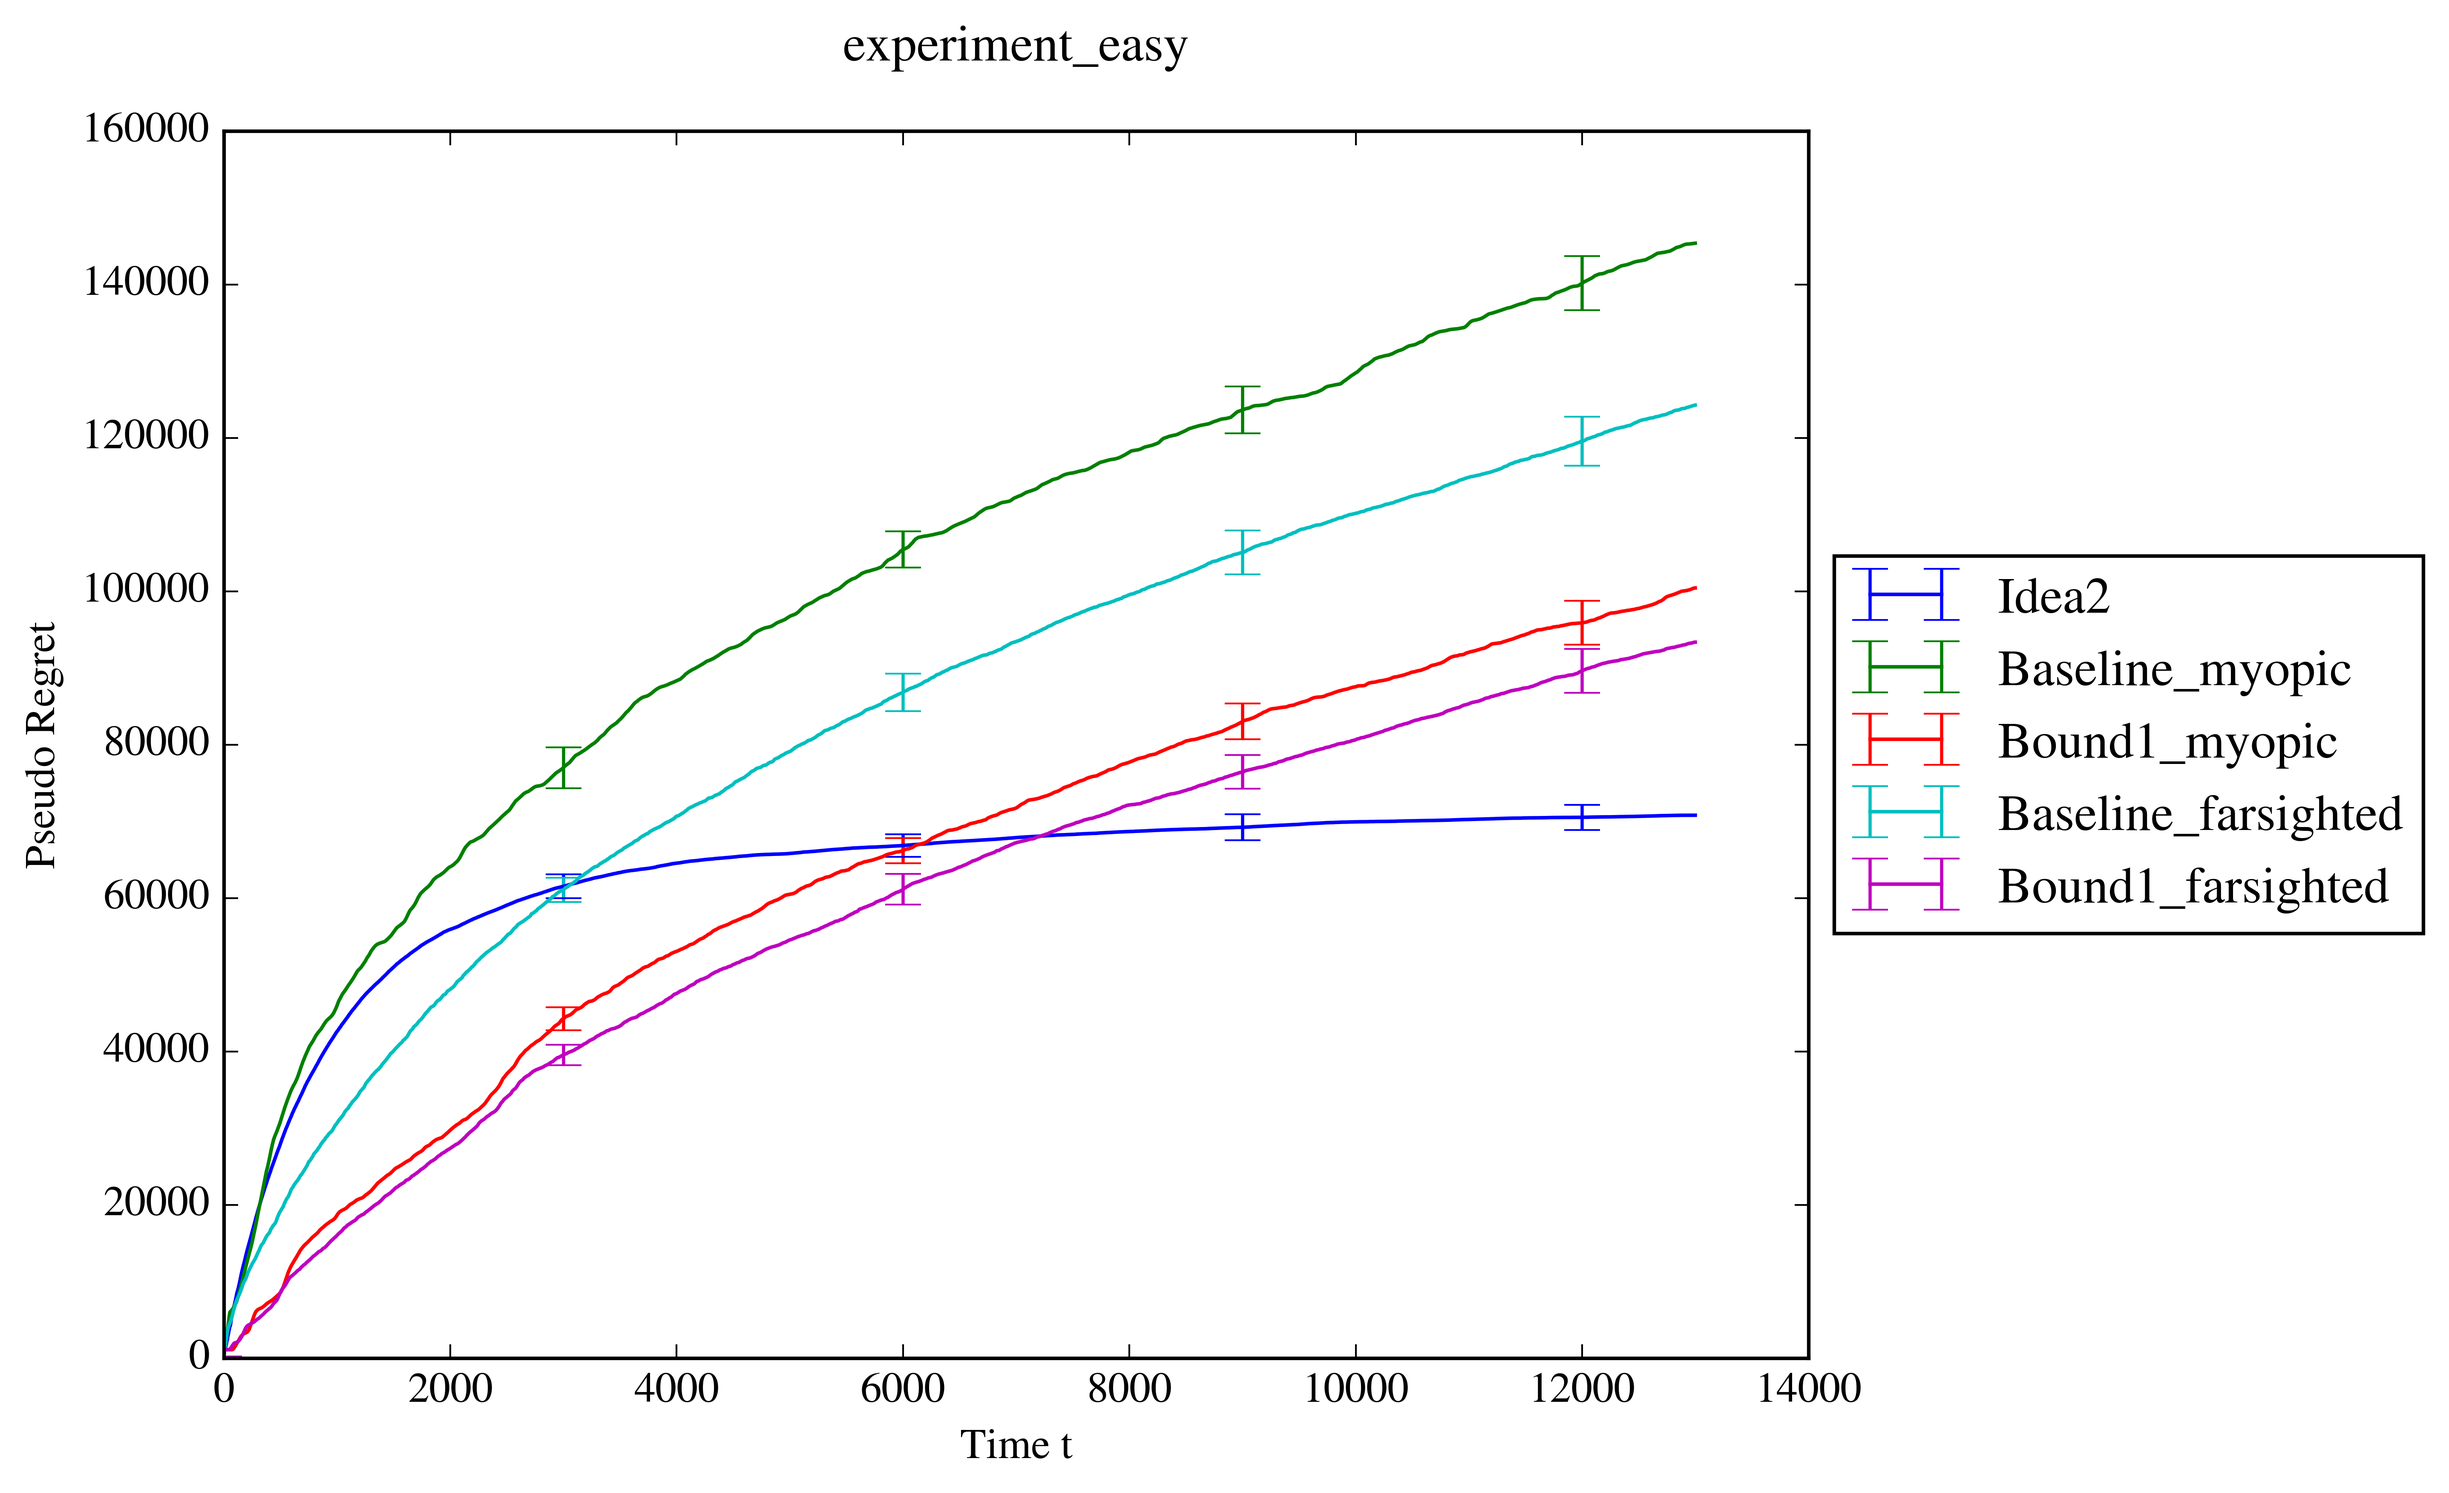
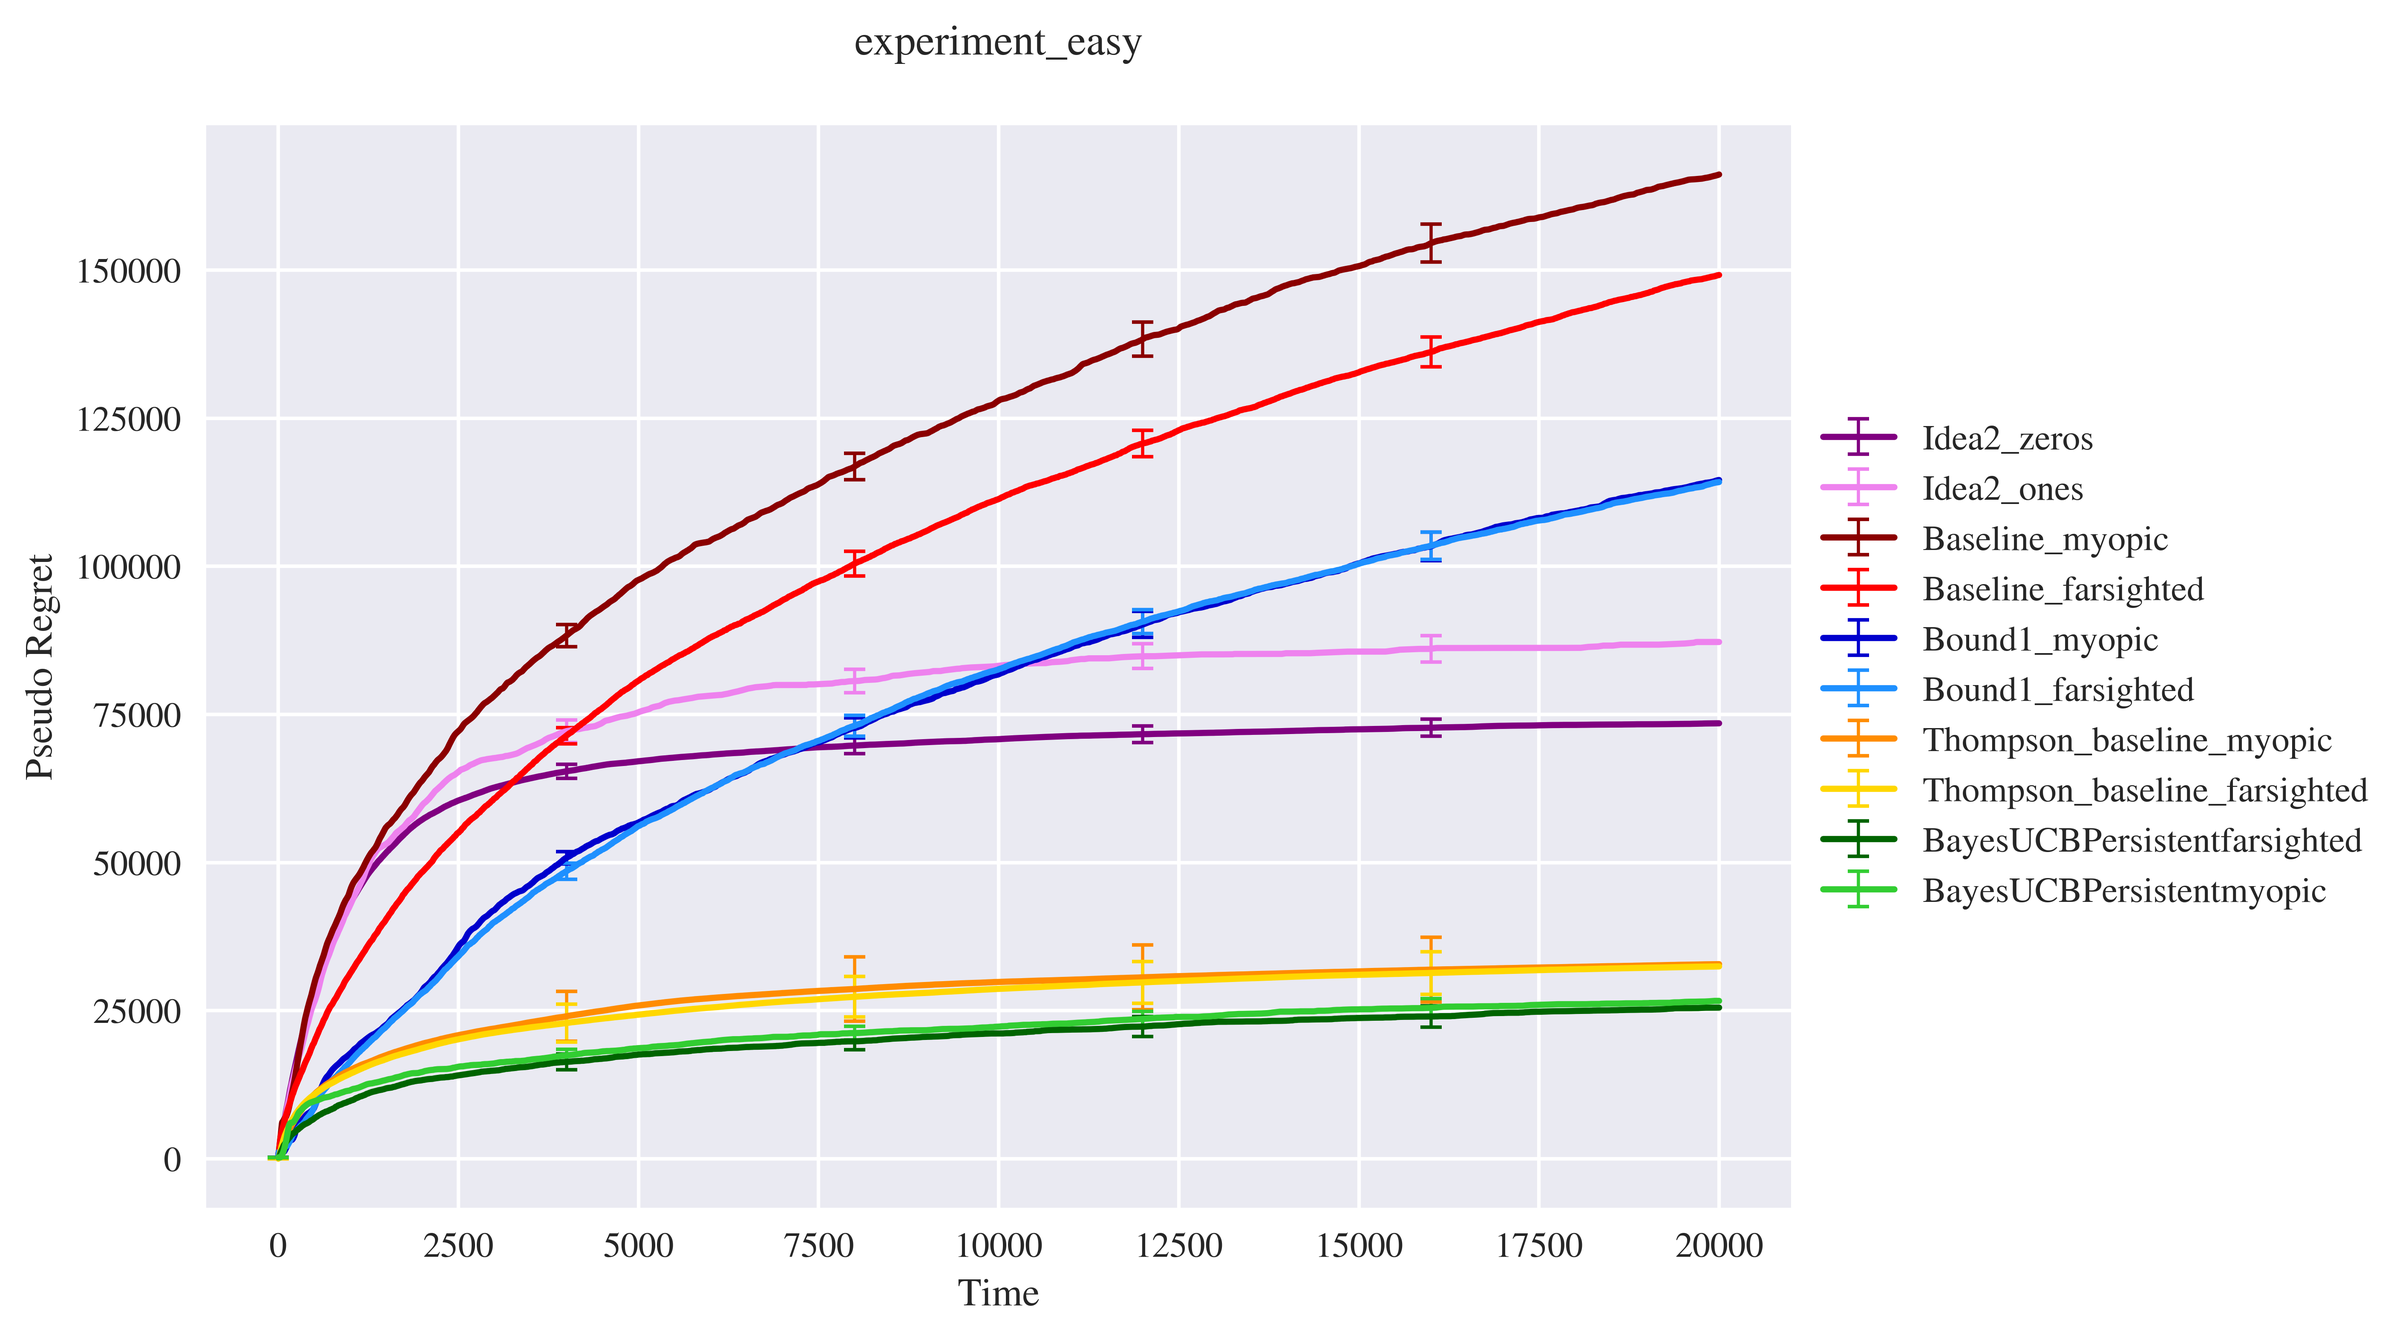
mainxserver expb

diff --git a/Experiment/Utils.py b/Experiment/Utils.py
@@ -8,7 +8,7 @@ from Parser.ArmSet import ArmSet
 from Parser.ExperimentDescription import ExperimentDescription
 from matplotlib import rc
 import matplotlib.pyplot as plt
-plt.style.use('classic')
+plt.style.use("seaborn")
 
 from matplotlib import rcParams
 rcParams['axes.titlepad'] = 20 
@@ -16,6 +16,9 @@ rcParams['axes.titlepad'] = 20
 
 plt.rcParams['mathtext.fontset'] = 'stix'
 plt.rcParams['font.family'] = 'STIXGeneral'
+
+color_list = ["purple","violet","darkred","red","mediumblue","dodgerblue","darkorange","gold","darkgreen","limegreen","black","dimgray","purple","fuchsia","purple","fuchsia","purple","fuchsia"]
+
 
 
 import json
@@ -50,19 +53,21 @@ def compute_experiment_pseudo_regret(learner_names,learner_arm_value_dict,oracle
         learner_pseudo_regret_dict[learner] = pseudo_regret_of_learner
         learner_average_pseudo_regret[learner] = np.mean(pseudo_regret_of_learner,axis = 0)
         learner_std[learner] = np.std(pseudo_regret_of_learner,axis = 0)
-
+    i = 0
     for learner in learner_names:
         x = np.arange(len(learner_average_pseudo_regret[learner]))
         confidence_interval = 2*learner_std[learner]/np.sqrt(n_runs)
-        plt.errorbar(x,learner_average_pseudo_regret[learner],confidence_interval,elinewidth=0.9,capsize=5, errorevery=3000 ,label = learner)
-
+        (_, caps, _) =plt.errorbar(x,learner_average_pseudo_regret[learner],confidence_interval,elinewidth=0.9,capsize=3, errorevery=4000 ,label = learner,color=color_list[i])
+        i = i+1
+        for cap in caps:
+            cap.set_markeredgewidth(1)
     plt.ylabel('Pseudo Regret')
     plt.title(str(file_name))
     plt.legend(loc='upper left')
     lgd = plt.legend(loc='center left', bbox_to_anchor=(1, 0.5),fancybox = False, shadow = False)
 
     #plt.legend(loc='center left', bbox_to_anchor=(1, 0.5))
-    plt.xlabel('Time t')
+    plt.xlabel('Time')
     plt.savefig("Results/"+ str(file_name)+" ANALYTICS.png", bbox_extra_artists=(lgd,), bbox_inches='tight',dpi=600)
     #plt.show()
     plt.clf()
@@ -172,10 +177,12 @@ def compute_full_analytics_from_files(n_runs,time_horizon,Oracle_best_arm_value,
             results_list_of_l.append(arm_values_of_l_on_run_i)
         learner_arm_value_dict[learner_names[l]] = results_list_of_l
 
+    
     #PLOT SINGLE RUN di VERIFICA
     for run_id in range(N_RUNS):
         for l in learner_names:
             plt.plot(calculate_cumulative_pseudo_regret(learner_arm_value_dict[l][run_id],Oracle_best_arm_value),label = l)
+
 
         plt.ylabel('cumulative pseudo regret')
         plt.title('cumulative pseudo regret '+"exp_0_"+str(step)+"_run"+str(run_id))
@@ -188,5 +195,5 @@ def compute_full_analytics_from_files(n_runs,time_horizon,Oracle_best_arm_value,
     compute_experiment_pseudo_regret(learner_names=learner_names,learner_arm_value_dict=learner_arm_value_dict,oracle_value=Oracle_best_arm_value,n_runs=N_RUNS,file_name=exp_name)
     print("DONE")
 
-
-#compute_full_analytics_from_files(n_runs=30,time_horizon=13000,Oracle_best_arm_value=254.99999999999997,learner_names=["Idea2","Baseline_myopic","Bound1_myopic","Baseline_farsighted","Bound1_farsighted"],experiment_name="experiment_easy"   )
+ln = ["Idea2_zeros","Idea2_ones","Baseline_myopic","Baseline_farsighted","Bound1_myopic","Bound1_farsighted","Thompson_baseline_myopic","Thompson_baseline_farsighted","BayesUCBPersistentfarsighted","BayesUCBPersistentmyopic"]
+compute_full_analytics_from_files(n_runs=50,time_horizon=20000,Oracle_best_arm_value=254.99999999999997,learner_names=ln,experiment_name="experiment_easy")

diff --git a/Experiment/Test.py b/Experiment/Test.py
@@ -109,7 +109,7 @@ def save_experiment_description(cnfg_m):
 
 
 
-experiment_name = "experiment_easy"
+experiment_name = "experiment_B"
 config_manager = ConfigManager(path ="Experiment/Parser/ConfigFiles", name = experiment_name+".json")
 env = Environment(config_manager.get_n_arms(), tmax = config_manager.get_tmax())
 T = config_manager.get_time()       

diff --git a/Experiment/MainPerServer.py b/Experiment/MainPerServer.py
@@ -70,7 +70,7 @@ def save_experiment_description(cnfg_m):
 
 
 
-experiment_name = "experiment_easy"
+experiment_name = "experiment_B"
 config_manager = ConfigManager(path ="Experiment/Parser/ConfigFiles", name = experiment_name+".json")
 env = Environment(config_manager.get_n_arms(), tmax = config_manager.get_tmax())
 T = config_manager.get_time()       
